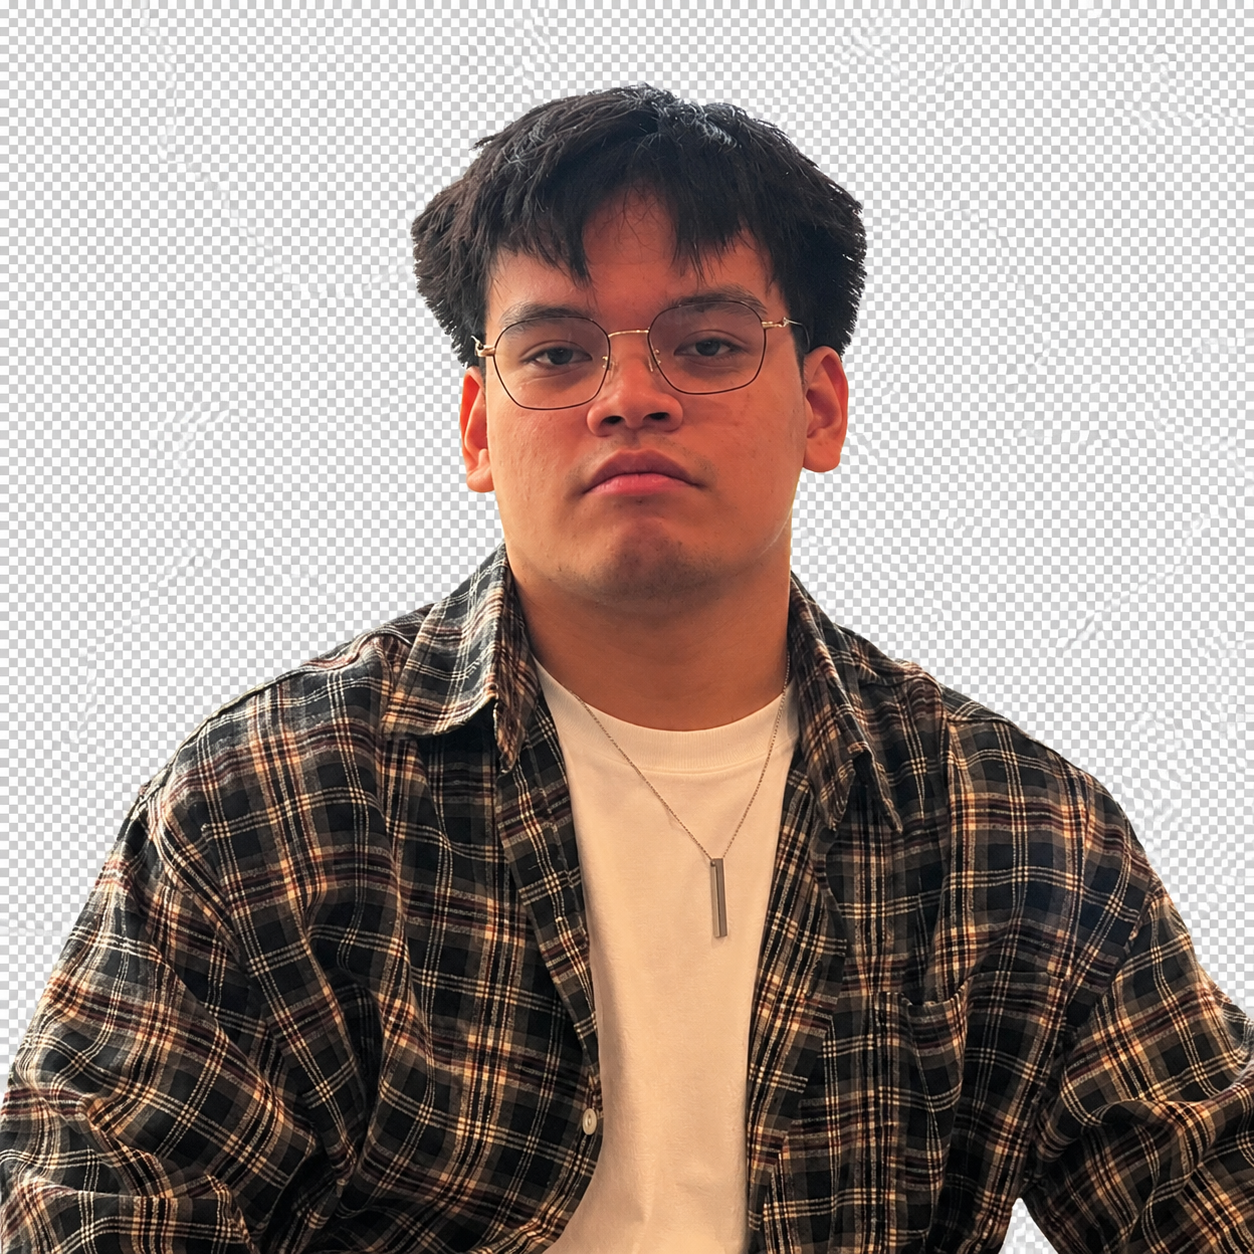
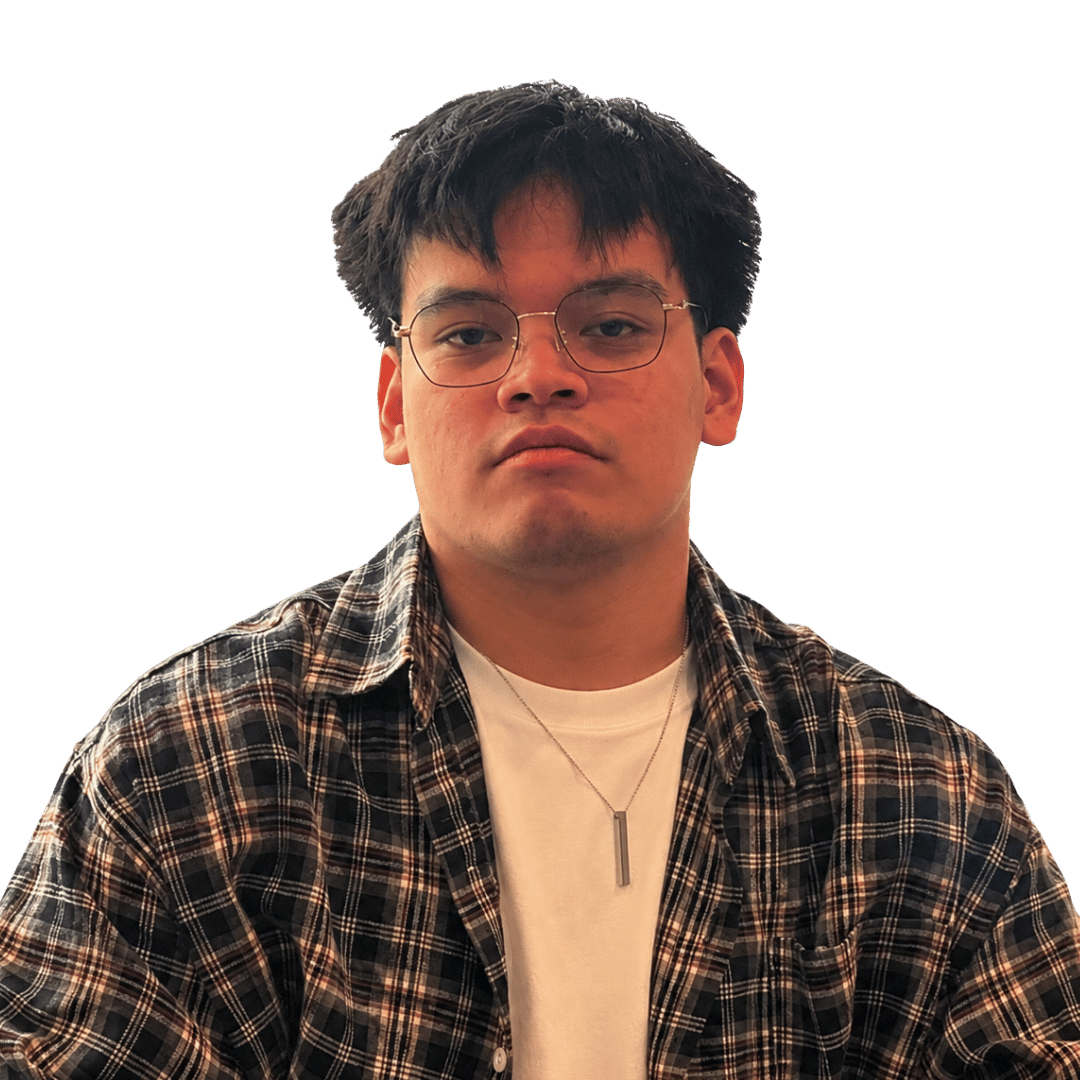
feat: add Manifesto chapter, rebuild Beyond Code as a scroll-snap carousel
- New Manifesto chapter inserted right after Origin (now chapter 02,
  renumbering How I Build through Proof to 03-08 across nav, kickers,
  and the hero's scroll cue): a full-screen bold quote with an inline
  photo inset that auto-cycles through src/assets/casual/*, discovered
  via import.meta.glob so no code change is needed once photos are
  added there (renders quote-only while the folder is empty, as it is
  now). HeroPinnedSection no longer bundles How I Build — HomePage
  composes Hero, Manifesto, and How I Build as separate chapters.
- Beyond Code's photo rows are now horizontal scroll-snap carousels
  (snap-x snap-mandatory) with smaller image tiles, leaving more room
  for the caption, and three alternating caption positions (above,
  below, vertical side label) instead of one fixed position per row.

diff --git a/src/components/creative/BeyondCodeGallery.tsx b/src/components/creative/BeyondCodeGallery.tsx
@@ -16,22 +16,14 @@ import client3 from '@/assets/client/client_3.jpg'
 import client4 from '@/assets/client/client_4.jpg'
 import client5 from '@/assets/client/client_5.jpg'
 
-type Width = 'lg' | 'md' | 'sm'
 type Aspect = 'portrait' | 'landscape' | 'square'
-type Offset = 'none' | 'sm' | 'lg'
+type CaptionPos = 'above' | 'below' | 'side'
 
 interface GalleryPhoto {
   src: string
   label: string
-  width: Width
   aspect: Aspect
-  offset: Offset
-}
-
-const WIDTH_CLASS: Record<Width, string> = {
-  lg: 'sm:w-[60%]',
-  md: 'sm:w-[42%]',
-  sm: 'sm:w-[30%]',
+  captionPos: CaptionPos
 }
 
 const ASPECT_CLASS: Record<Aspect, string> = {
@@ -40,11 +32,8 @@ const ASPECT_CLASS: Record<Aspect, string> = {
   square: 'aspect-[4/4]',
 }
 
-const OFFSET_CLASS: Record<Offset, string> = {
-  none: 'sm:mt-0',
-  sm: 'sm:mt-10',
-  lg: 'sm:mt-24',
-}
+/** Smaller than the image itself used to be — leaves room for the caption to carry more weight. */
+const TILE_WIDTH_CLASS = 'w-[62vw] sm:w-[220px]'
 
 interface GalleryStory {
   eyebrow: string
@@ -59,12 +48,12 @@ const STORIES: GalleryStory[] = [
     title: 'On Site, Internship',
     quote: 'Showing up in person is still how most of the trust gets built.',
     photos: [
-      { src: intern1, label: 'Manila, 2024', width: 'lg', aspect: 'landscape', offset: 'none' },
-      { src: intern2, label: 'Manila, 2024', width: 'sm', aspect: 'portrait', offset: 'lg' },
-      { src: intern3, label: 'Manila, 2024', width: 'md', aspect: 'square', offset: 'sm' },
-      { src: intern4, label: 'Manila, 2024', width: 'sm', aspect: 'portrait', offset: 'none' },
-      { src: intern5, label: 'Manila, 2024', width: 'lg', aspect: 'landscape', offset: 'lg' },
-      { src: intern6, label: 'Manila, 2024', width: 'md', aspect: 'portrait', offset: 'sm' },
+      { src: intern1, label: 'Manila, 2024', aspect: 'landscape', captionPos: 'above' },
+      { src: intern2, label: 'Manila, 2024', aspect: 'portrait', captionPos: 'side' },
+      { src: intern3, label: 'Manila, 2024', aspect: 'square', captionPos: 'below' },
+      { src: intern4, label: 'Manila, 2024', aspect: 'portrait', captionPos: 'above' },
+      { src: intern5, label: 'Manila, 2024', aspect: 'landscape', captionPos: 'side' },
+      { src: intern6, label: 'Manila, 2024', aspect: 'portrait', captionPos: 'below' },
     ],
   },
   {
@@ -72,39 +61,57 @@ const STORIES: GalleryStory[] = [
     title: 'In Front of Clients',
     quote: 'Engineering is also a people problem — explaining the trade-off is half the job.',
     photos: [
-      { src: client1, label: 'Client site, 2024', width: 'md', aspect: 'portrait', offset: 'sm' },
-      { src: client2, label: 'Client site, 2024', width: 'lg', aspect: 'landscape', offset: 'none' },
-      { src: client3, label: 'Client site, 2024', width: 'sm', aspect: 'square', offset: 'lg' },
-      { src: client4, label: 'Client site, 2024', width: 'md', aspect: 'portrait', offset: 'none' },
-      { src: client5, label: 'Client site, 2024', width: 'lg', aspect: 'landscape', offset: 'sm' },
+      { src: client1, label: 'Client site, 2024', aspect: 'portrait', captionPos: 'side' },
+      { src: client2, label: 'Client site, 2024', aspect: 'landscape', captionPos: 'above' },
+      { src: client3, label: 'Client site, 2024', aspect: 'square', captionPos: 'below' },
+      { src: client4, label: 'Client site, 2024', aspect: 'portrait', captionPos: 'above' },
+      { src: client5, label: 'Client site, 2024', aspect: 'landscape', captionPos: 'side' },
     ],
   },
 ]
 
-function PhotoTile({ photo, index }: { photo: GalleryPhoto; index: number }) {
-  const alignRight = index % 2 === 1
+function PhotoTile({ photo }: { photo: GalleryPhoto }) {
+  const image = (
+    <div className={cn('shrink-0 overflow-hidden rounded-[var(--radius-project)]', TILE_WIDTH_CLASS)}>
+      <img
+        src={photo.src}
+        alt={photo.label}
+        loading="lazy"
+        className={cn(
+          'w-full object-cover transition-transform duration-500 hover:scale-[1.03]',
+          ASPECT_CLASS[photo.aspect],
+        )}
+      />
+    </div>
+  )
+
+  const caption = (
+    <span className="font-[var(--font-mono)] text-[10px] uppercase tracking-[0.16em] text-[var(--color-text-muted)]">
+      {photo.label}
+    </span>
+  )
+
+  if (photo.captionPos === 'side') {
+    return (
+      <div className={cn('essay-frame flex shrink-0 items-center gap-3 snap-start', TILE_WIDTH_CLASS)}>
+        {image}
+        <span className="font-[var(--font-mono)] text-[10px] uppercase tracking-[0.16em] text-[var(--color-text-muted)] [writing-mode:vertical-rl]">
+          {photo.label}
+        </span>
+      </div>
+    )
+  }
+
   return (
     <div
       className={cn(
-        'essay-frame flex flex-col gap-2',
-        alignRight ? 'items-end text-right' : 'items-start',
-        OFFSET_CLASS[photo.offset],
+        'essay-frame flex shrink-0 snap-start flex-col gap-2',
+        TILE_WIDTH_CLASS,
+        photo.captionPos === 'below' && 'flex-col-reverse',
       )}
     >
-      <span className="font-[var(--font-mono)] text-[10px] uppercase tracking-[0.16em] text-[var(--color-text-muted)]">
-        {photo.label}
-      </span>
-      <div className={cn('w-full overflow-hidden rounded-[var(--radius-project)]', WIDTH_CLASS[photo.width])}>
-        <img
-          src={photo.src}
-          alt={photo.label}
-          loading="lazy"
-          className={cn(
-            'w-full object-cover transition-transform duration-500 hover:scale-[1.03]',
-            ASPECT_CLASS[photo.aspect],
-          )}
-        />
-      </div>
+      {caption}
+      {image}
     </div>
   )
 }
@@ -124,9 +131,12 @@ function Story({ story }: { story: GalleryStory }) {
         </p>
       </div>
 
-      <div className="flex flex-col gap-8 sm:gap-2">
-        {story.photos.map((photo, i) => (
-          <PhotoTile key={photo.src} photo={photo} index={i} />
+      <div
+        className="flex snap-x snap-mandatory gap-6 overflow-x-auto pb-4"
+        style={{ scrollbarWidth: 'none', msOverflowStyle: 'none', WebkitOverflowScrolling: 'touch' }}
+      >
+        {story.photos.map((photo) => (
+          <PhotoTile key={photo.src} photo={photo} />
         ))}
       </div>
     </div>

diff --git a/src/components/manifesto/ManifestoSection.tsx b/src/components/manifesto/ManifestoSection.tsx
@@ -1,0 +1,109 @@
+import { useEffect, useRef, useState } from 'react'
+import { useGSAP } from '@gsap/react'
+import { usePrefersReducedMotion } from '@/app/providers/usePrefersReducedMotion'
+import { gsap } from '@/lib/motion/gsapScroll'
+import { TopographicTexture } from '@/components/hero/TopographicTexture'
+
+// Auto-discovers whatever images get dropped into src/assets/casual/ — no code
+// change needed when photos are added. Renders the quote alone if the folder
+// is still empty.
+const CASUAL_MODULES = import.meta.glob<{ default: string }>(
+  '/src/assets/casual/*.{jpg,jpeg,png,webp}',
+  { eager: true },
+)
+const CASUAL_IMAGES = Object.keys(CASUAL_MODULES)
+  .sort()
+  .map((key) => CASUAL_MODULES[key].default)
+
+const SWITCH_INTERVAL_MS = 2600
+
+/**
+ * Manifesto — full-screen quote chapter inserted right after Origin, matching
+ * landonorris.com's "CHALLENGING THE LIMITS, WINNING RACES..." pull-quote
+ * treatment: a bold multi-line statement with a small photo inset that
+ * auto-cycles through a rotating set of casual/candid shots.
+ */
+export function ManifestoSection() {
+  const reduce = usePrefersReducedMotion()
+  const [frame, setFrame] = useState(0)
+  const insetRef = useRef<HTMLDivElement>(null)
+  const ghostRef = useRef<HTMLSpanElement>(null)
+
+  useEffect(() => {
+    if (reduce || CASUAL_IMAGES.length < 2) return
+    const id = window.setInterval(() => {
+      setFrame((f) => (f + 1) % CASUAL_IMAGES.length)
+    }, SWITCH_INTERVAL_MS)
+    return () => window.clearInterval(id)
+  }, [reduce])
+
+  useGSAP(() => {
+    if (reduce || !insetRef.current || !ghostRef.current) return
+    const ctx = gsap.context(() => {
+      gsap.fromTo(
+        insetRef.current,
+        { scale: 0.92 },
+        {
+          scale: 1.05,
+          ease: 'none',
+          scrollTrigger: { trigger: '#manifesto', start: 'top bottom', end: 'bottom top', scrub: true },
+        },
+      )
+      gsap.fromTo(
+        ghostRef.current,
+        { xPercent: -4 },
+        {
+          xPercent: 4,
+          ease: 'none',
+          scrollTrigger: { trigger: '#manifesto', start: 'top bottom', end: 'bottom top', scrub: true },
+        },
+      )
+    })
+    return () => ctx.revert()
+  }, [reduce])
+
+  return (
+    <section
+      id="manifesto"
+      className="relative flex min-h-svh w-full items-center justify-center overflow-hidden bg-[#0a0a0a] px-[var(--shell-gutter-sm)] py-24 sm:px-[var(--shell-gutter-md)] lg:px-[var(--shell-gutter-lg)]"
+    >
+      <TopographicTexture />
+
+      <span className="relative z-10 font-[var(--font-mono)] text-[11px] uppercase tracking-[0.3em] text-[#ff6b1a]">
+        02 // Manifesto
+      </span>
+
+      <div className="relative mt-20 flex max-w-5xl flex-wrap items-center justify-center gap-x-4 text-center">
+        <span
+          ref={ghostRef}
+          aria-hidden="true"
+          className="pointer-events-none absolute inset-x-0 top-1/2 -translate-y-1/2 select-none font-[var(--font-display)] text-[16vw] uppercase leading-none text-[#f5f5f0]/[0.06] sm:text-[11vw]"
+        >
+          Rigor
+        </span>
+
+        <h2 className="relative z-10 font-[var(--font-display)] text-[11vw] uppercase leading-[0.95] tracking-[-0.01em] text-[#f5f5f0] sm:text-6xl md:text-7xl">
+          Shipping systems that hold up under real use, bringing{' '}
+          {CASUAL_IMAGES.length > 0 && (
+            <span
+              ref={insetRef}
+              className="relative mx-2 inline-block h-[0.9em] w-[1.6em] align-middle overflow-hidden rounded-xl border border-white/15 sm:mx-3"
+            >
+              {CASUAL_IMAGES.map((src, i) => (
+                <img
+                  key={src}
+                  src={src}
+                  alt=""
+                  aria-hidden="true"
+                  className="absolute inset-0 h-full w-full object-cover transition-opacity duration-700"
+                  style={{ opacity: i === frame ? 1 : 0 }}
+                />
+              ))}
+            </span>
+          )}{' '}
+          the rigor to every release, every chapter of this page.
+        </h2>
+      </div>
+    </section>
+  )
+}

diff --git a/src/components/hero/HeroPinnedSection.tsx b/src/components/hero/HeroPinnedSection.tsx
@@ -1,17 +1,12 @@
 import { HeroSystemEntry } from '@/components/hero/HeroSystemEntry'
-import { HeroRevealSection } from '@/components/hero/HeroRevealSection'
 
 /**
- * Origin chapter: a full-bleed portrait hero (HeroSystemEntry) followed by the
- * How I Build reveal. No longer pins a sticky background visual — the portrait
- * itself is the hero's only photographic element, so there is nothing separate
- * left to hold in place while scrolling past it.
+ * Origin chapter: the full-bleed portrait hero. No longer pins a sticky
+ * background visual — the portrait itself is the hero's only photographic
+ * element, so there is nothing separate left to hold in place while scrolling
+ * past it. Manifesto and How I Build are separate chapters composed directly
+ * in HomePage.
  */
 export function HeroPinnedSection() {
-  return (
-    <>
-      <HeroSystemEntry />
-      <HeroRevealSection />
-    </>
-  )
+  return <HeroSystemEntry />
 }

diff --git a/src/config/navigation.ts b/src/config/navigation.ts
@@ -6,10 +6,11 @@ export interface NavSection {
 
 export const NAV_SECTIONS: NavSection[] = [
   { id: 'hero', label: 'Origin', short: '01' },
-  { id: 'system-overview', label: 'How I Build', short: '02' },
-  { id: 'projects', label: "What I've Built", short: '03' },
-  { id: 'impact', label: 'Impact', short: '04' },
-  { id: 'skills', label: 'Skills', short: '05' },
-  { id: 'creative', label: 'Beyond Code', short: '06' },
-  { id: 'credibility', label: 'Proof', short: '07' },
+  { id: 'manifesto', label: 'Manifesto', short: '02' },
+  { id: 'system-overview', label: 'How I Build', short: '03' },
+  { id: 'projects', label: "What I've Built", short: '04' },
+  { id: 'impact', label: 'Impact', short: '05' },
+  { id: 'skills', label: 'Skills', short: '06' },
+  { id: 'creative', label: 'Beyond Code', short: '07' },
+  { id: 'credibility', label: 'Proof', short: '08' },
 ]

diff --git a/src/components/hero/HeroSystemEntry.tsx b/src/components/hero/HeroSystemEntry.tsx
@@ -47,7 +47,7 @@ export function HeroSystemEntry() {
   }
 
   const handleScrollToMap = () => {
-    smoothScrollTo('system-overview', { updateHash: true })
+    smoothScrollTo('manifesto', { updateHash: true })
   }
 
   useGSAP(() => {
@@ -230,7 +230,7 @@ export function HeroSystemEntry() {
           <span className="flex h-6 w-6 items-center justify-center rounded-full border border-white/25 transition-all group-hover:border-[#ff6b1a] group-hover:bg-[#ff6b1a]/10">
             <ChevronDown className="h-3.5 w-3.5 transition-transform group-hover:translate-y-0.5" aria-hidden />
           </span>
-          <span>Next: How I Build</span>
+          <span>Next: Manifesto</span>
         </motion.button>
       </div>
     </header>

diff --git a/src/pages/HomePage.tsx b/src/pages/HomePage.tsx
@@ -1,4 +1,6 @@
 import { HeroPinnedSection } from '@/components/hero/HeroPinnedSection'
+import { ManifestoSection } from '@/components/manifesto/ManifestoSection'
+import { HeroRevealSection } from '@/components/hero/HeroRevealSection'
 import HomePageBelowFold from '@/components/home/HomePageBelowFold'
 import { useChapterSnap } from '@/hooks/useChapterSnap'
 
@@ -8,6 +10,8 @@ export function HomePage() {
   return (
     <main id="main-content" tabIndex={-1} className="text-left outline-none">
       <HeroPinnedSection />
+      <ManifestoSection />
+      <HeroRevealSection />
       <HomePageBelowFold />
     </main>
   )

diff --git a/src/components/skills/SkillsHomeSection.tsx b/src/components/skills/SkillsHomeSection.tsx
@@ -36,7 +36,7 @@ export function SkillsHomeSection() {
 
   return (
     <div id="skills" className="scroll-mt-[var(--shell-header-height)]">
-      <ChapterTitleCard kicker="05 // Skills" title="Expertise Network" />
+      <ChapterTitleCard kicker="06 // Skills" title="Expertise Network" />
       <Section id="skills-content" tone="dark" hideHeader bleed={false}>
         <p className="mb-6 max-w-3xl text-sm text-[var(--global-text-muted)] md:mb-8">
           Nodes aggregate to shipped projects; edges encode adjacent practice. Hover for context, click to jump to a

diff --git a/src/components/credibility/CredibilityHomeSection.tsx b/src/components/credibility/CredibilityHomeSection.tsx
@@ -7,7 +7,7 @@ import { CredibilityClosingCta } from '@/components/credibility/CredibilityClosi
 export function CredibilityHomeSection() {
   return (
     <div id="credibility" className="scroll-mt-[var(--shell-header-height)]">
-      <ChapterTitleCard kicker="07 // Proof" title="Consistent. Curious. Compounding." />
+      <ChapterTitleCard kicker="08 // Proof" title="Consistent. Curious. Compounding." />
       <Section id="credibility-content" tone="dark" hideHeader bleed={false}>
         <GitHubCredibility />
         <div className="mt-10 md:mt-12">

diff --git a/src/components/creative/CreativeHomeSection.tsx b/src/components/creative/CreativeHomeSection.tsx
@@ -5,7 +5,7 @@ import { CreativeCosmic } from '@/components/creative/CreativeCosmic'
 export function CreativeHomeSection() {
   return (
     <div id="creative" className="scroll-mt-[var(--shell-header-height)]">
-      <ChapterTitleCard kicker="06 // Beyond Code" title="Off the Clock, Same Rigor." />
+      <ChapterTitleCard kicker="07 // Beyond Code" title="Off the Clock, Same Rigor." />
       <Section id="creative-content" tone="dark" hideHeader bleed={false}>
         <CreativeCosmic />
       </Section>

diff --git a/src/components/impact/ImpactHomeSection.tsx b/src/components/impact/ImpactHomeSection.tsx
@@ -6,7 +6,7 @@ import { ImpactTimeline } from '@/components/impact/ImpactTimeline'
 export function ImpactHomeSection() {
   return (
     <div id="impact" className="scroll-mt-[var(--shell-header-height)]">
-      <ChapterTitleCard kicker="04 // Impact" title="Built to Last." />
+      <ChapterTitleCard kicker="05 // Impact" title="Built to Last." />
       <Section id="impact-content" tone="dark" hideHeader bleed={false}>
         <AggregateMetricsBar />
         <ImpactTimeline />

diff --git a/src/components/hero/HeroRevealSection.tsx b/src/components/hero/HeroRevealSection.tsx
@@ -11,7 +11,7 @@ export function HeroRevealSection() {
   return (
     <div id="system-overview" className="scroll-mt-[var(--shell-header-height)]">
       <ChapterTitleCard
-        kicker="02 // How I Build"
+        kicker="03 // How I Build"
         title="The Engineering Lifecycle"
         subtitle="Every system advances through 10 disciplined phases from problem formulation to production maintenance."
       />

diff --git a/src/components/projects/ProjectsShowcaseSection.tsx b/src/components/projects/ProjectsShowcaseSection.tsx
@@ -35,7 +35,7 @@ export function ProjectsShowcaseSection() {
   return (
     <div id="projects" className="scroll-mt-[var(--shell-header-height)]">
       <ChapterTitleCard
-        kicker="03 // What I've Built"
+        kicker="04 // What I've Built"
         title="Selected Work"
         subtitle={`${PROJECTS.length} shipped systems, one consistent chrome.`}
       />
